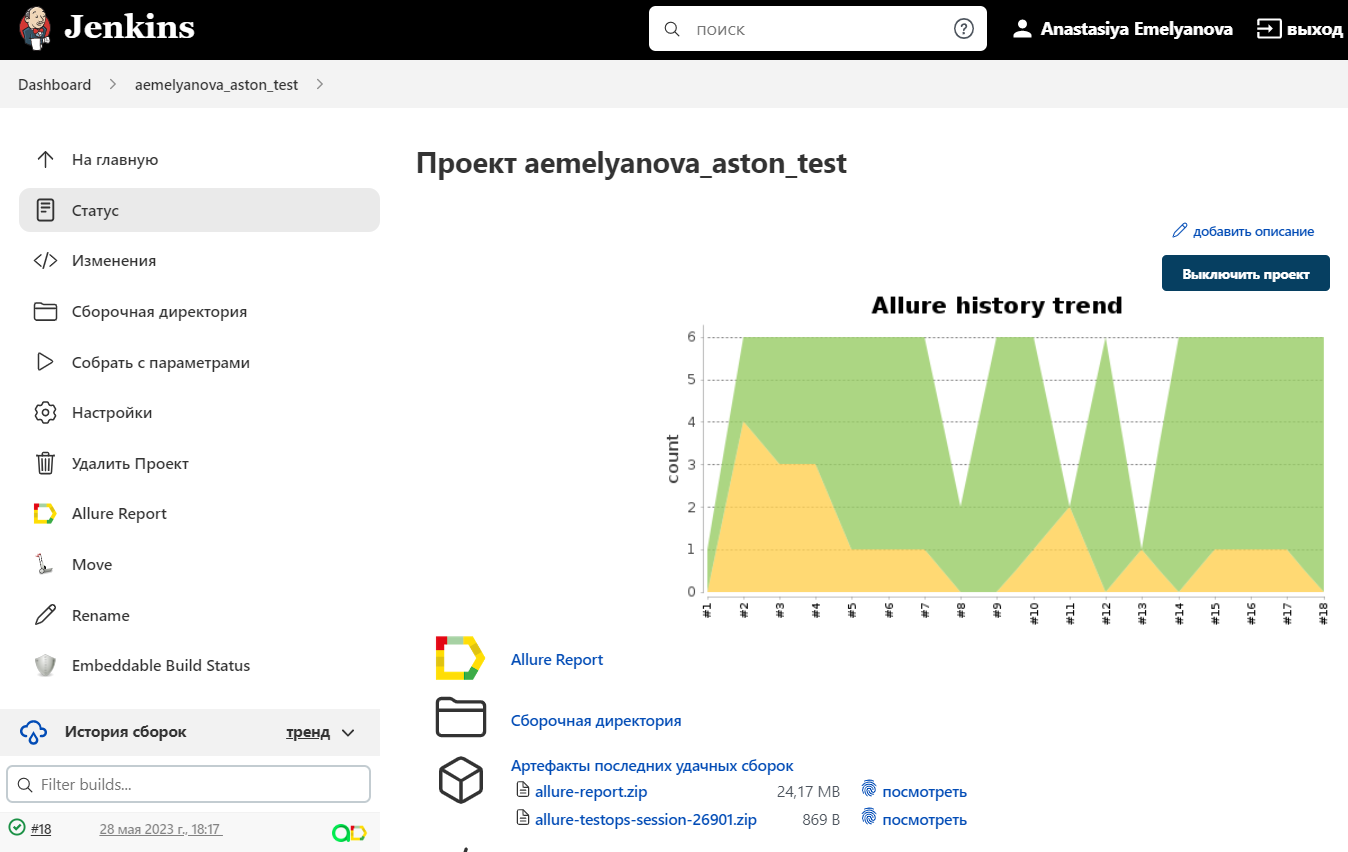
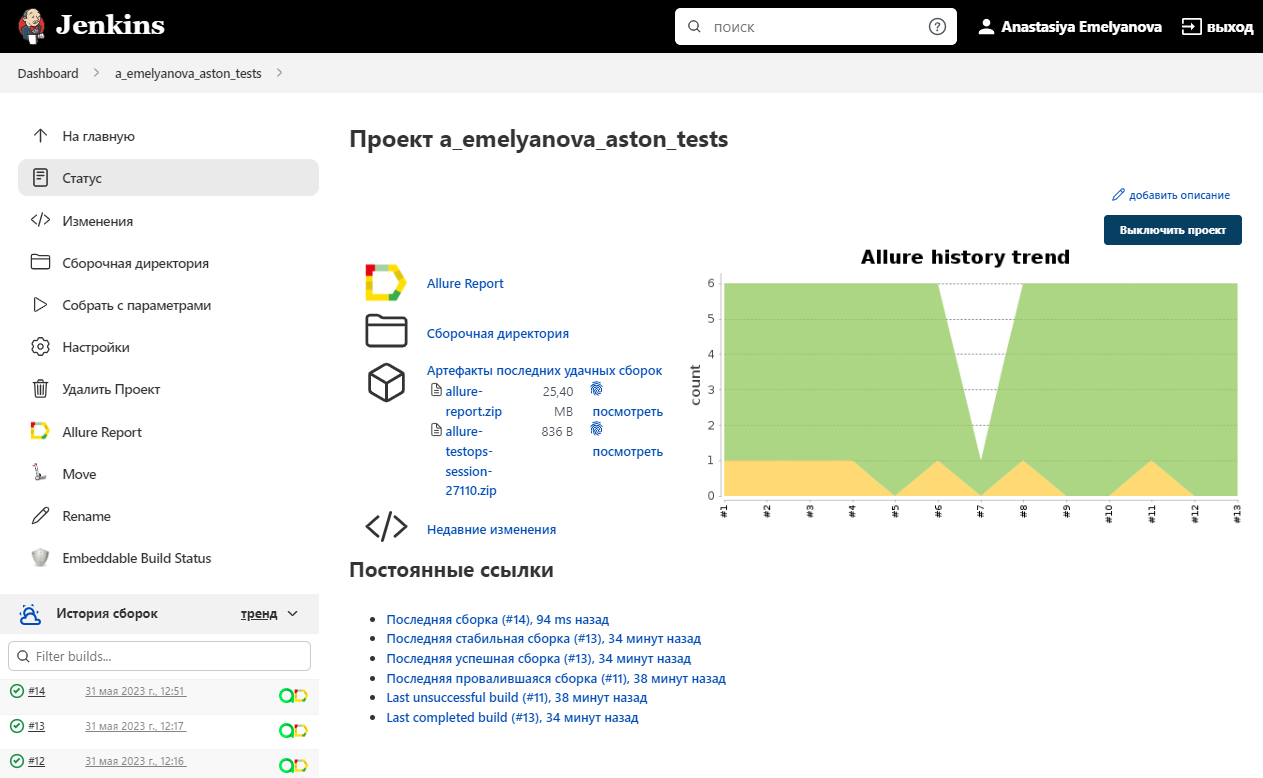
added README

diff --git a/README.md b/README.md
@@ -73,8 +73,9 @@ clean aston_test
 ## <img alt="Jenkins" height="25" src="images/logo/Jenkins.svg" width="25"/></a><a name="Сборка"></a>Сборка в [Jenkins](https://jenkins.autotests.cloud/job/aemelyanova_aston_test/)</a>
 ____
 <p align="center">  
-<a href="https://jenkins.autotests.cloud/job/Kod3ik_qa_guru_x5/"><img src="images/screen/jenkins_dashboard.png" alt="Jenkins" width="950"/></a>  
+<a href="https://jenkins.autotests.cloud/job/a_emelyanova_aston_tests/"><img src="images/screen/jenkins_dashboard.png" alt="Jenkins" width="950"/></a>  
 </p>
+
 
 #### Параметры сборки
 
@@ -90,18 +91,18 @@ ___
 ### *Основная страница отчёта*
 
 <p align="center">  
-<img title="Allure Overview Dashboard" src="images/screen/jenkins_overview.png" width="850">  
+<img title="Allure Overview Dashboard" src="images/screen/allure_dashboard.png" width="850">  
 </p>  
 
 ### *Тест-кейсы*
 
 <p align="center">  
-<img title="Allure Tests" src="images/screen/allure_tests.png" width="850">  
+<img title="Allure Tests" src="images/screen/allure_test_case.png" width="850">  
 </p>
 
 ### *Графики*
 
   <p align="center">  
-<img title="Allure Graphics" src="images/screen/allure_graths.bmp" width="850">  
-<img title="Allure Graphics" src="images/screen/graphs.png" width="850">  
+<img title="Allure Graphics" src="images/screen/allure_graphs.bmp" width="850">  
+<img title="Allure Graphics" src="images/screen/graphs_graphs1.png" width="850">  
 </p>
